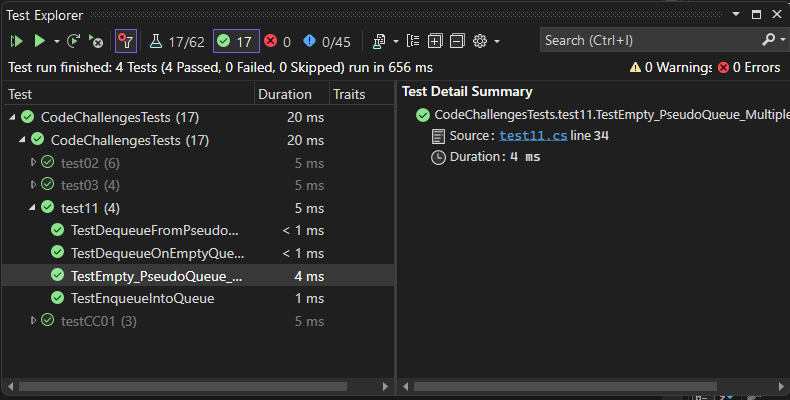
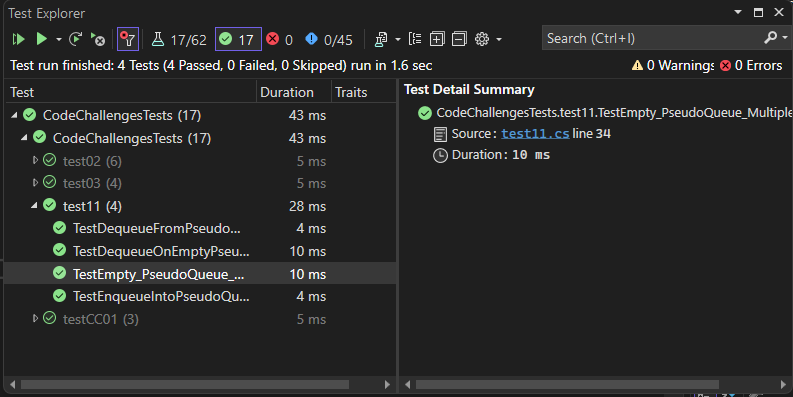
CC11

diff --git a/CodeChallengesTests/test11.cs b/CodeChallengesTests/test11.cs
@@ -7,7 +7,7 @@ namespace CodeChallengesTests
     {
 
         [Fact]
-        public void TestEnqueueIntoQueue()
+        public void TestEnqueueIntoPseudoQueue()
         {
             PseudoQueue queue = new();
 
@@ -46,7 +46,7 @@ namespace CodeChallengesTests
         }
 
         [Fact]
-        public void TestDequeueOnEmptyQueueThrowException()
+        public void TestDequeueOnEmptyPseudoQueueThrowException()
         {
             PseudoQueue queue = new PseudoQueue();
 
